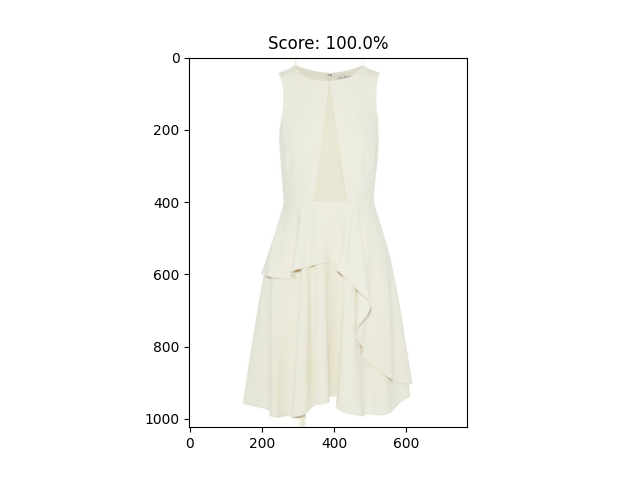
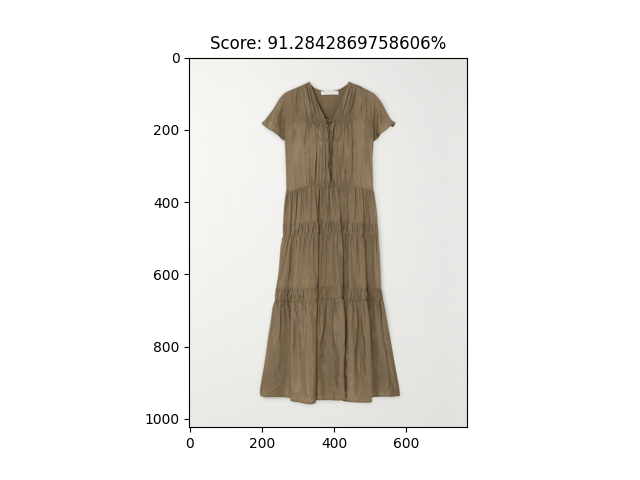
fixed retrieval use case and test. added results of retrieval use case

Changed region(s): [[0.2812, 0.0625, 0.75, 0.9062]]

diff --git a/retrieval/training_and_testing_retrieval.py b/retrieval/training_and_testing_retrieval.py
@@ -1,170 +1,11 @@
 import torch
 from torch.utils.data import DataLoader
-from torch.utils.data.dataset import random_split
-from ray.air import session
 import time
 import math
-import os
 import queue
 import matplotlib.pyplot as plt
 from tqdm import tqdm
 from PIL import Image
-
-
-def training_or_testing_epoch_retrieval_(device, model, tokenizer, dl, len_dataset, labels_list, loss_img=None, loss_txt=None,
-                                         optimizer=None, training=True):
-    if training:
-        assert (optimizer is not None and loss_img is not None and loss_txt is not None)
-    
-    cum_accuracy = 0.0
-    cum_loss = 0.0
-    
-    for inputs in dl:
-        cloth_img = inputs["cloth_img"].to(device)
-        label = inputs["label"]
-        label_idx = torch.zeros((len(label)), dtype=torch.int64)
-        for i, l in enumerate(label):
-            label_idx[i] = labels_list.index(l)
-        
-        text = tokenizer(label) if training else tokenizer(labels_list)
-        text = text.to(device)
-        ground_truth = torch.arange(len(label), dtype=torch.long, device=device)
-        
-        if training:
-            optimizer.zero_grad()
-            image_features, text_features, _ = model(cloth_img, text)
-        else:
-            image_features = model.encode_image(cloth_img)
-            text_features = model.encode_text(text)
-        
-        logits_per_image = 100.0 * image_features.clone() @ text_features.clone().T
-        logits_per_text = 100.0 * text_features.clone() @ image_features.clone().T
-        
-        if loss_img is not None and loss_txt is not None:
-            tot_loss = (loss_img(logits_per_image, ground_truth) + loss_txt(logits_per_text, ground_truth)) / 2
-            cum_loss += tot_loss.item()
-
-        with torch.no_grad():
-            image_features /= image_features.norm(dim=-1, keepdim=True)
-            text_features /= text_features.norm(dim=-1, keepdim=True)
-            image_probs = (100.0 * image_features @ text_features.T).softmax(dim=-1)
-            predictions = torch.argmax(image_probs, dim=1)
-            cum_accuracy += torch.sum(predictions.cpu() == label_idx).item()
-        
-        if training:
-            tot_loss.backward()
-            optimizer.step()
-    
-    accuracy = cum_accuracy / len_dataset
-    loss = cum_loss / len_dataset
-    return accuracy, loss
-    
-def train_retrieval_model(device, model, tokenizer, dataset, n_epochs, batch_size, loss_img, loss_txt, optimizer, evaluate=False, num_workers=0):
-    model = model.to(device)
-    labels_list = dataset.get_labels()
-    torch.autograd.set_detect_anomaly(True)
-    
-    if evaluate:
-        n_train_samples = round(0.85 * len(dataset))
-        n_val_samples = len(dataset) - n_train_samples
-        dataset_train, dataset_val = random_split(
-            dataset, lengths=[n_train_samples, n_val_samples], generator=torch.Generator().manual_seed(99))
-        dl_train = DataLoader(dataset_train, batch_size=batch_size, shuffle=True, drop_last=True,
-                              num_workers=num_workers)
-        dl_val = DataLoader(dataset_val, batch_size=batch_size, num_workers=num_workers)
-    else:
-        dl_train = DataLoader(dataset, batch_size=batch_size, shuffle=True, drop_last=True,
-                              num_workers=num_workers)
-        dl_val = None
-    
-    average_train_loss = []
-    average_val_loss = []
-    average_train_score = []
-    average_val_score = []
-    for e in range(n_epochs):
-        model.train()
-        train_accuracy, train_loss = training_or_testing_epoch_retrieval_(device=device, model=model, tokenizer=tokenizer, dl=dl_train,
-                                                                          len_dataset=len(dataset_train), labels_list=labels_list, loss_img=loss_img,
-                                                                          loss_txt=loss_txt, optimizer=optimizer, training=True)
-        average_train_score.append(train_accuracy)
-        average_train_loss.append(train_loss)
-
-        if dl_val is not None:
-            model.eval()
-            with torch.no_grad():
-                val_loss, val_accuracy = training_or_testing_epoch_retrieval_(device=device, model=model, tokenizer=tokenizer, dl=dl_val,
-                                                                              len_dataset=len(dataset_val), labels_list=labels_list, loss_img=loss_img,
-                                                                              loss_txt=loss_txt, training=False)
-                average_val_score.append(val_accuracy)
-                average_val_loss.append(val_loss)
-        
-        print(f"--- Epoch {e + 1} ---")
-        print(f"train loss: {train_loss} - train accuracy: {train_accuracy}")
-        if dl_val is not None:
-            print(f"val loss: {val_loss} - val accuracy: {val_accuracy}")
-    
-    results = {
-        'average_train_loss': average_train_loss,
-        'average_train_score': average_train_score,
-        'average_val_loss': average_val_loss,
-        'average_val_score': average_val_score
-    }
-
-    model.eval()
-    return results
-
-def train_retrieval_model_with_ray(config, device, model, tokenizer, dataset, n_epochs, loss_img, loss_txt, optimizer, evaluate=False, num_workers=0):
-    model = model.to(device)
-    labels_list = dataset.get_labels()
-    
-    batch_size = config["batch_size"]
-    optimizer = optimizer(model.parameters(), lr=config["lr"], weight_decay=config["weight_decay"])
-    
-    # start from a checkpoint
-    if config["from_checkpoint"]:
-        model_state, optimizer_state = torch.load(os.path.join(config["checkpoint_dir"], "checkpoint.pt"))
-        model.load_state_dict(model_state)
-        optimizer.load_state_dict(optimizer_state)
-    
-    if evaluate:
-        n_train_samples = round(0.85 * len(dataset))
-        n_val_samples = len(dataset) - n_train_samples
-        dataset_train, dataset_val = random_split(
-            dataset, lengths=[n_train_samples, n_val_samples], generator=torch.Generator().manual_seed(99))
-        dl_train = DataLoader(dataset_train, batch_size=batch_size, shuffle=True, drop_last=True,
-                              num_workers=num_workers)
-        dl_val = DataLoader(dataset_val, batch_size=batch_size, num_workers=num_workers)
-    else:
-        dl_train = DataLoader(dataset, batch_size=batch_size, shuffle=True, drop_last=True,
-                              num_workers=num_workers)
-        dl_val = None
-    
-    
-    for _ in range(n_epochs):
-        model.train()
-        train_accuracy, train_loss = training_or_testing_epoch_retrieval_(device=device, model=model, tokenizer=tokenizer, dl=dl_train,
-                                                                          len_dataset=len(dataset_train), labels_list=labels_list, loss_img=loss_img,
-                                                                          loss_txt=loss_txt, optimizer=optimizer, training=True)
-
-        if dl_val is not None:
-            model.eval()
-            with torch.no_grad():
-                val_loss, val_accuracy = training_or_testing_epoch_retrieval_(device=device, model=model, tokenizer=tokenizer, dl=dl_val,
-                                                                              len_dataset=len(dataset_val), labels_list=labels_list, loss_img=loss_img,
-                                                                              loss_txt=loss_txt, training=False)
-
-        torch.save(
-            (model.state_dict(), optimizer.state_dict()),
-            os.path.join(config["checkpoint_dir"], "checkpoint.pt"))
-
-        # report metrics to Ray Tune
-        if evaluate:
-            session.report({"train_loss": train_loss, "train_accuracy": train_accuracy,
-                            "val_loss": val_loss, "val_accuracy": val_accuracy})
-        else:
-            session.report({"train_loss": train_loss, "train_accuracy": train_accuracy})
-
-    model.eval()
 
 
 def test_retrieval_model(device, model, tokenizer, dataset, batch_size, num_workers=0):
@@ -172,12 +13,13 @@ def test_retrieval_model(device, model, tokenizer, dataset, batch_size, num_work
     model.eval()
     
     labels_list = dataset.get_labels()
-    dl = DataLoader(dataset, batch_size=batch_size, shuffle=False, drop_last=False, num_workers=num_workers)
+    dl = DataLoader(dataset, batch_size=batch_size, shuffle=True, drop_last=False, num_workers=num_workers)
     
-    accuracy = 0.0
+    image_text_accuracy = 0.0
+    text_image_accuracy = 0.0
     clock_start = time.time()
     with torch.no_grad():
-        for inputs in dl:
+        for inputs in tqdm(dl):
             cloth_img = inputs["cloth_img"].to(device)
             label = inputs["label"]
             label_idx = torch.zeros((len(label)), dtype=torch.int64)
@@ -185,37 +27,47 @@ def test_retrieval_model(device, model, tokenizer, dataset, batch_size, num_work
                 label_idx[i] = labels_list.index(l)
 
             text = tokenizer(labels_list).to(device)
+            
             image_features = model.encode_image(cloth_img)
             text_features = model.encode_text(text)
             image_features /= image_features.norm(dim=-1, keepdim=True)
             text_features /= text_features.norm(dim=-1, keepdim=True)
-            image_probs = (100.0 * image_features @ text_features.T).softmax(dim=-1)
-            predictions = torch.argmax(image_probs, dim=1)
-            accuracy += torch.sum(predictions.cpu() == label_idx).item()
+            
+            text_probs = (100.0 * image_features @ text_features.T).softmax(dim=-1)
+            predictions = torch.argmax(text_probs, dim=-1)
+            image_text_accuracy += torch.sum(predictions.cpu() == label_idx).item()
+            
+            image_probs = (100.0 * text_features @ image_features.T).softmax(dim=-1)
+            predicted_image = torch.argmax(image_probs, dim=-1)
+            ground_truth = label_idx[predicted_image]
+            predictions = torch.arange(3, dtype=torch.int64)
+            text_image_accuracy += torch.sum(predictions.cpu() == ground_truth).item()
 
     clock_end = time.time()
     
-    accuracy /= len(dataset)
+    image_text_accuracy /= len(dataset)
+    text_image_accuracy /= 3 * len(dl)
     
     print(f'Device: {device}.')
     print(f'Inference completed in around {math.ceil(clock_end - clock_start)} seconds.')
     
-    return accuracy
+    return image_text_accuracy, text_image_accuracy
 
 
 def retrieve_clothes(device, model, tokenizer, query, k, dataset, batch_size, images_path, num_workers=0):
     model = model.to(device)
     model.eval()
     
-    label = "a cloth of type " + query
-    dl = DataLoader(dataset, batch_size=batch_size, shuffle=False, drop_last=False, num_workers=num_workers)
+    label = "a cloth of type " + query.replace("_", " ")
+    
+    dl = DataLoader(dataset, batch_size=batch_size, shuffle=True, drop_last=False, num_workers=num_workers)
     text = tokenizer(label).to(device)
     top_k = queue.PriorityQueue()
     
     clock_start = time.time()
     
     with torch.no_grad():
-        for i, inputs in tqdm(enumerate(dl)):
+        for inputs in tqdm(dl):
             dataroot = inputs["dataroot"]
             cloth_name = inputs["cloth_name"]
             cloth_img = inputs["cloth_img"].to(device)
@@ -226,9 +78,9 @@ def retrieve_clothes(device, model, tokenizer, query, k, dataset, batch_size, im
             image_features /= image_features.norm(dim=-1, keepdim=True)
             text_features /= text_features.norm(dim=-1, keepdim=True)
 
-            image_probs = (100.0 * image_features @ text_features.T).softmax(dim=-1)
-            best_of_batch_score, best_of_batch_idx = image_probs.topk(k, dim=0)
-            for score, idx in zip(best_of_batch_score, best_of_batch_idx):
+            image_probs = (100.0 * text_features @ image_features.T).softmax(dim=-1)
+            best_of_batch_score, best_of_batch_idx = image_probs.topk(k, dim=-1)
+            for score, idx in zip(best_of_batch_score[0], best_of_batch_idx[0]):
                 score *= -1
                 img_path = dataroot[idx] + "/images/" + cloth_name[idx]
                 item = (score, img_path)

diff --git a/retrieval_use_case.py b/retrieval_use_case.py
@@ -9,26 +9,27 @@ def main_worker(args):
     device = "cuda" if torch.cuda.is_available() else "cpu"
     clip_model = args.clip_model
     pretrained = model_names.CLIP_MODELS_PRETRAINED[clip_model]
+    
     model, _, preprocess = open_clip.create_model_and_transforms(clip_model, pretrained=pretrained)
     tokenizer = open_clip.get_tokenizer(clip_model)
-    # Dataset & Dataloader
+
     dataset = DressCodeDataset(dataroot_path=args.dataroot,
                                preprocess=preprocess,
                                phase=args.phase,
                                order=args.order)
     
+    batch_size = args.batch_size
     query = args.query
+    k = args.k
     images_path = "retrieval/retrieved_images/"
-    k = 5
     
-    print(f"Retrieving clothes of type '{query}' from DressCode Dataset...")
+    print(f"Retrieving clothes of type '{query}' from DressCode Dataset, using clip model {clip_model} (pretrained on {pretrained})...")
     training_and_testing_retrieval.retrieve_clothes(device=device, model=model, tokenizer=tokenizer, query=query, k=k,
-                                                    dataset=dataset, batch_size=args.batch_size, images_path=images_path)
-    print(f"The retrieved clothes have been saved in {images_path}")
+                                                    dataset=dataset, batch_size=batch_size, images_path=images_path)
+    print(f"The retrieved clothes have been saved in '{images_path}'")
 
 
 if __name__ == '__main__':
-    # Get argparser configuration
     args = utils.parse_retrieval_arguments()
-    # Call main worker
+
     main_worker(args)

diff --git a/retrieval_test.py b/retrieval_test.py
@@ -9,21 +9,24 @@ def main_worker(args):
     device = "cuda" if torch.cuda.is_available() else "cpu"
     clip_model = args.clip_model
     pretrained = model_names.CLIP_MODELS_PRETRAINED[clip_model]
+    
     model, _, preprocess = open_clip.create_model_and_transforms(clip_model, pretrained=pretrained)
     tokenizer = open_clip.get_tokenizer(clip_model)
-    # Dataset & Dataloader
+    
     dataset = DressCodeDataset(dataroot_path=args.dataroot,
                                preprocess=preprocess,
                                phase=args.phase,
                                order=args.order)
     
-    print(f"Testing clip model {clip_model} on the test set of DressCode Dataset...")
-    accuracy = training_and_testing_retrieval.test_retrieval_model(device, model, tokenizer, dataset, args.batch_size)
-    print(f"Accuracy = {(100 * accuracy):.2f}%")
+    batch_size = args.batch_size
+    
+    print(f"Testing clip model {clip_model} (pretrained on '{pretrained}') on the test set of DressCode Dataset...")
+    image_text_accuracy, text_image_accuracy = training_and_testing_retrieval.test_retrieval_model(device, model, tokenizer, dataset, batch_size)
+    print(f"Image-text accuracy = {(100 * image_text_accuracy):.2f}%")
+    print(f"Text-image accuracy = {(100 * text_image_accuracy):.2f}%")
 
 
 if __name__ == '__main__':
-    # Get argparser configuration
     args = utils.parse_retrieval_arguments()
-    # Call main worker
+    
     main_worker(args)

diff --git a/utils/utils.py b/utils/utils.py
@@ -79,6 +79,7 @@ def parse_retrieval_arguments(train=True):
     parser.add_argument("--phase", default="test", choices=["train", "test"], type=str)
     parser.add_argument("--order", default="unpaired", choices=["paired", "unpaired"], type=str)
     parser.add_argument("--query", default="dress", choices=["dress", "upper_body", "lower_body"], type=str)
+    parser.add_argument("--k", default=5, type=int)
 
     parser.add_argument('--batch_size', type=int, default=8)
     parser.add_argument('--workers', type=int, default=0)

diff --git a/utils/model_names.py b/utils/model_names.py
@@ -9,9 +9,9 @@ MODEL_NAMES = {
 }
 
 CLIP_MODELS_PRETRAINED = {
-    'ViT-B-16': 'laion400m_e31',
-    'ViT-B-32': 'laion400m_e31',
-    'ViT-L-14': 'laion400m_e31',
+    'ViT-B-16': 'laion2B_s34B_b88K',
+    'ViT-B-32': 'laion2b_s34b_b79k',
+    'ViT-L-14': 'laion400m_e32',
     'ViT-H-14': 'laion2b_s32b_b79k',
     'ViT-g-14': 'laion2b_s12b_b42k',
     'ViT-bigG-14': 'laion2b_s39b_b160k'

diff --git a/models/dataset.py b/models/dataset.py
@@ -7,7 +7,6 @@ sys.path.append(path.dirname(path.dirname(path.abspath(__file__))))
 
 import os
 from typing import List, Tuple
-import torch
 from torch.utils.data import Dataset
 from PIL import Image
 import xml.etree.ElementTree as ET
